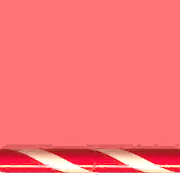
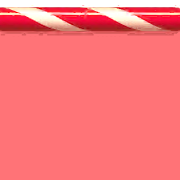
Added licorice fences

diff --git a/script.js b/script.js
@@ -7,10 +7,10 @@ const glass = {"122": "glass_tile_1", "123": "glass_tile_2", "124": "glass_tile_
 const blockers = {"009": "chocolate", "017": "licorice_square", "019": "block_multi_frosting1", "020": "block_multi_frosting2", "021": "block_multi_frosting3", "022": "block_multi_frosting4", "023": "block_multi_frosting5", "024": "chocolate_spawner", "054": "shell_1", "062": "magic_mixer", "079": "block_waffle1", "080": "block_waffle2", "081": "block_waffle3", "082": "block_waffle4", "083": "block_waffle5", "094": "dark_chocolate_1", "095": "dark_chocolate_2", "096": "dark_chocolate_3", "097": "dark_chocolate_4", "098": "dark_chocolate_5", "129": "chain_layer1_c", "130": "chain_layer2_c", "131": "chain_layer3_c", "132": "chain_layer4_c", "133": "chain_layer5_c", "157": "shell_3", "158": "shell_2", "159": "bubble_pop_1", "160": "bubble_pop_2", "161": "bubble_pop_3", "162": "bubble_pop_4", "163": "bubble_pop_5", "211": "dark_chocolate_spawner_1", "212": "dark_chocolate_spawner_2", "213": "dark_chocolate_spawner_3", "220": "jelly_jar_1", "221": "jelly_jar_2"}
 const tiles = {"empty": "empty", "000": "none", "001": "grid", "003": "jelly", "004": "jelly2", "064": "blue_tile", "065": "black_tile"}
 const ingredients = {"125": "cherry", "126": "hazelnut"}
-const walldown = {"087": "wall_down"}
-const wallup = {"086": "wall_up"}
-const wallright = {"089": "wall_right"}
-const wallleft = {"088": "wall_left"}
+const walldown = {"087": "wall_down", "165": "licorice_wall_down"}
+const wallup = {"086": "wall_up", "164": "licorice_wall_up"}
+const wallright = {"089": "wall_right", "167": "licorice_wall_right"}
+const wallleft = {"088": "wall_left", "166": "licorice_wall_left"}
 
 const elements_ids = Object.assign({}, colors, walldown, wallup, wallright, wallleft, coloredCandy, candy, blockers, tiles, ingredients, sugarCoats, locks, glass, {"010": "ingredients_exit", "005": "candy_entrance"})
 const elements_names = _.invert(elements_ids)

diff --git a/index.html b/index.html
@@ -308,6 +308,18 @@
                         <button onclick="updateSelection(this, 'wall_right', 'wallright')" class="">
                             <img class="selectionimage" src="elements/wall_right_ui.png">
                         </button>
+                        <button onclick="updateSelection(this, 'licorice_wall_down', 'walldown')" class="">
+                            <img class="selectionimage" src="elements/licorice_wall_down_ui.png">
+                        </button>
+                        <button onclick="updateSelection(this, 'licorice_wall_up', 'wallup')" class="">
+                            <img class="selectionimage" src="elements/licorice_wall_up_ui.png">
+                        </button>
+                        <button onclick="updateSelection(this, 'licorice_wall_left', 'wallleft')" class="">
+                            <img class="selectionimage" src="elements/licorice_wall_left_ui.png">
+                        </button>
+                        <button onclick="updateSelection(this, 'licorice_wall_right', 'wallright')" class="">
+                            <img class="selectionimage" src="elements/licorice_wall_right_ui.png">
+                        </button>
                     </div>
                 </div>
             </div>

diff --git a/style.css b/style.css
@@ -231,13 +231,13 @@ img[src="elements/cake_top_right.png"], img[src="elements/cake_bottom_right.png"
 
 #level .walldown {
     position: absolute;
-    bottom: 90%;
+    bottom: -90%;
     z-index: 3;
 }
 
 #level .wallup {
     position: absolute;
-    bottom: -90%;
+    bottom: 90%;
     z-index: 3;
 }
 
